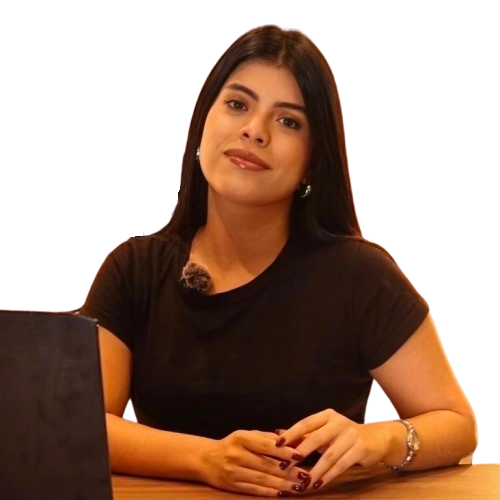
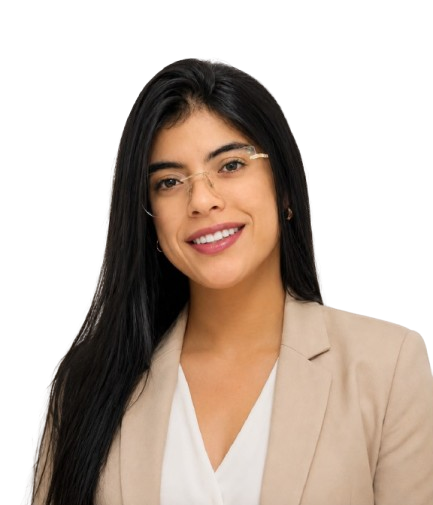
feat: cambio ruta de fotos

diff --git a/index.html b/index.html
@@ -368,7 +368,7 @@
           <div class="team-card">
             <div class="team-card__photo">
               <img
-                src="simples/team/laura1.png"
+                src="simples/team/laura.png"
                 alt="Laura Restrepo"
                 class="team-card__photo-image"
               />
@@ -386,7 +386,7 @@
           <div class="team-card">
             <div class="team-card__photo">
               <img
-                src="simples/team/maria1.png"
+                src="simples/team/maria.png"
                 alt="Maria Paula"
                 class="team-card__photo-image"
               />